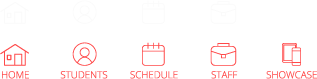
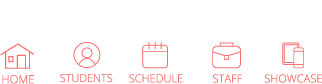
made "home button" hover working
Figured out CSS hover images position

diff --git a/styles/styles.css b/styles/styles.css
@@ -2,8 +2,12 @@ h1 {
 	font-size: 25px;
 	font-family: 'Fira Sans', sans-serif;
 }
+
 ul#menu-icons{
+	background-color: black;
 	position: relative;
+	width: 450px;
+	height: 50px;
 }
 
 ul#menu-icons li {
@@ -16,14 +20,19 @@ ul#home li{
 }
 
 #home a {
-	background: url("../images/twd-mobile-icons.png")left bottom;
-
+	background: url("../images/twd-mobile-icons.png") left top;
 }
+
+#home a:hover{
+	background:url("../images/twd-mobile-icons.png") left bottom;
+}
+
+
 
 ul#menu-icons li a {
     display: block;
     width: 40px;
-    height: 40px;
+    height: 42px; /* png file - one icon's height*/
     text-indent: 100%;
     white-space: nowrap;
     overflow: hidden;
